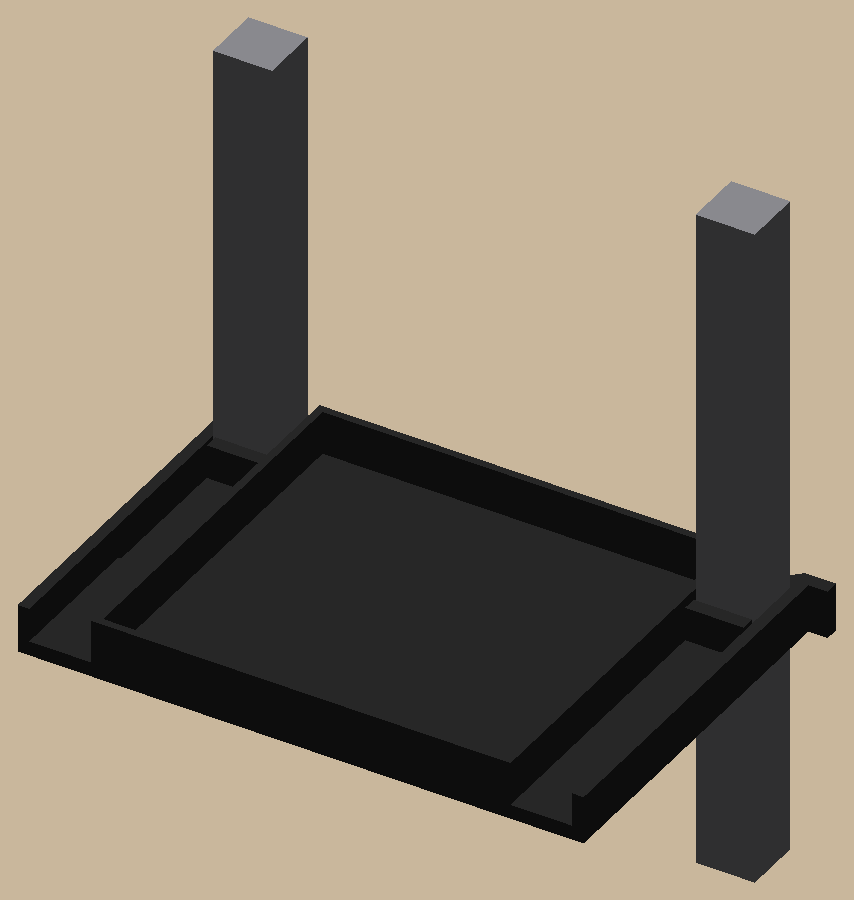
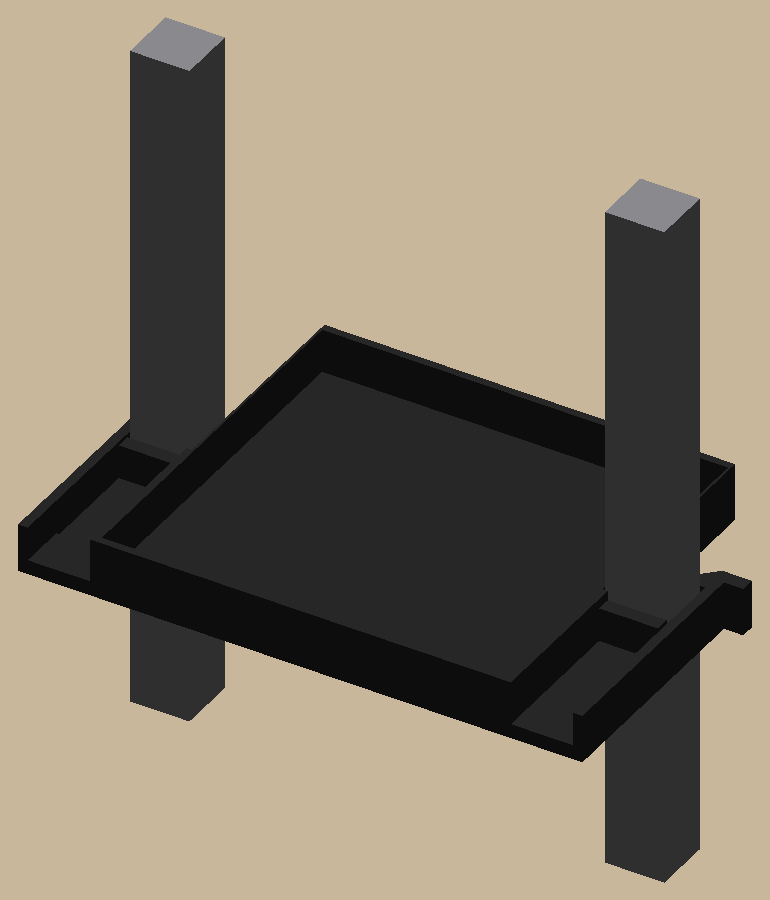
Speaker shelf: speaker centered on the rails both ways; real gap 86, clips at 88 (1 mm play); shorter, thinner arm with a longer root

diff --git a/examples/speaker-shelf/tests/test_shelf.py b/examples/speaker-shelf/tests/test_shelf.py
@@ -5,8 +5,11 @@ from build123d import Align, Box, Pos
 from cadkit.checks import downward_faces, off_layer_z, open_edges, printable_problems
 from cadkit.clash import find_clashes
 from speaker_shelf.assembly import placed_parts, rail_boxes, speaker_box
-from speaker_shelf.parts import hook_end_y, rail_outer_x, shelf, shelf_body
+from speaker_shelf.parts import hook_end_y, shelf, shelf_body
 from speaker_shelf.params import P
+
+PLAY = min(P.rail_clear, (P.clip_gap - P.rail_gap) / 2 + P.arm_gap)  # side to side, each way
+REAL_OUTER = P.rail_gap / 2 + P.rail  # the real rails' outer faces
 
 R = P.rail / 2
 
@@ -38,10 +41,25 @@ def test_too_big_a_rail_clashes():
     assert find_clashes([("shelf", shelf_body(P))] + fat) != []
 
 
+@pytest.mark.parametrize("shift", [PLAY, -PLAY])
+def test_shelf_slides_side_to_side_within_its_play(shift):
+    assert find_clashes([("shelf", Pos(shift, 0, 0) * shelf_body(P))] + rail_boxes(P)) == []
+
+
+@pytest.mark.parametrize("shift", [PLAY + 0.3, -PLAY - 0.3])
+def test_play_is_no_more_than_that(shift):
+    assert find_clashes([("shelf", Pos(shift, 0, 0) * shelf_body(P))] + rail_boxes(P)) != []
+
+
+def test_clips_have_about_a_millimetre_of_play():
+    assert (P.clip_gap - P.rail_gap) / 2 == pytest.approx(1.0)
+    assert P.arm_gap + (P.clip_gap - P.rail_gap) / 2 >= P.rail_clear  # the floor stops it before an arm would
+
+
 @pytest.mark.parametrize("side", [1, -1])
 def test_jaw_to_hook_is_the_fit_tested_size(body, side):
     """Along y through the clip, between the front jaw and the hook: exactly p.rail of air."""
-    x = side * (rail_outer_x(P) - 1)
+    x = side * (REAL_OUTER - 1)
     probe = _box(x - 0.05, x + 0.05, -R - P.jaw_t - 1, R + 3, P.clip_h / 2, P.clip_h / 2 + 0.1)
     pieces = sorted((s.bounding_box() for s in (body & probe).solids()), key=lambda b: b.min.Y)
     assert len(pieces) == 2
@@ -49,22 +67,23 @@ def test_jaw_to_hook_is_the_fit_tested_size(body, side):
 
 
 @pytest.mark.parametrize("side", [1, -1])
-def test_hook_reaches_behind_the_rail(body, side):
-    xo = rail_outer_x(P)
+def test_hook_reaches_behind_the_real_rail(body, side):
+    xo = REAL_OUTER
     behind = _box(min(side * xo, side * (xo - P.rail)), max(side * xo, side * (xo - P.rail)), R, R + 0.5, 0, P.clip_h)
     covered = (body & behind).bounding_box()
-    assert covered.size.X == pytest.approx(P.hook_depth, abs=0.01)
+    assert covered.size.X == pytest.approx(P.hook_depth - (P.clip_gap - P.rail_gap) / 2, abs=0.01)
+    assert covered.size.X - PLAY >= 3.5  # still a good bite with the shelf shifted away
 
 
 def test_pocket_fits_the_speaker_with_clearance(body):
     """A probe across the pocket at mid-wall height: the air is the speaker plus clearance both ways."""
     z = (P.floor_t + P.wall_h) / 2
-    cy = -P.speaker_offset
+    cy = -P.speaker_d / 3  # in front of the rails, where the pocket has side walls
     across = sorted((s.bounding_box() for s in (body & _box(-60, 60, cy - 0.05, cy + 0.05, z, z + 0.1)).solids()),
                     key=lambda b: b.min.X)
     inner = [b for b in across if abs(b.center().X) < P.rail_gap / 2]
     assert inner[1].min.X - inner[0].max.X == pytest.approx(P.speaker_w + 2 * P.speaker_clear, abs=0.01)
-    deep = sorted((s.bounding_box() for s in (body & _box(-0.05, 0.05, -90, 30, z, z + 0.1)).solids()),
+    deep = sorted((s.bounding_box() for s in (body & _box(-0.05, 0.05, -90, 90, z, z + 0.1)).solids()),
                   key=lambda b: b.min.Y)
     assert deep[1].min.Y - deep[0].max.Y == pytest.approx(P.speaker_d + 2 * P.speaker_clear, abs=0.01)
 
@@ -73,7 +92,7 @@ def test_rails_slide_in_from_the_back_touching_only_the_hooks(body):
     """Install: the shelf is pushed on from the front, so each rail travels from behind to y = 0.
     Along that path it meets nothing but the hooks (which the arms swing out of the way)."""
     for side in (1, -1):
-        xo = rail_outer_x(P)
+        xo = REAL_OUTER
         x0, x1 = sorted((side * (xo - P.rail), side * xo))
         hit = body & _box(x0, x1, -R, 60, -1, 30)
         assert hit.volume > 0
@@ -90,11 +109,14 @@ def test_arm_bends_within_pla_strain_when_snapping_on():
     assert 3 * P.arm_t * (P.hook_depth + P.arm_gap) / (2 * P.arm_free ** 2) < 0.01
 
 
-def test_offset_load_cocks_the_clips():
-    """A clip on a pole jams when the load sits further out than clip_h / (2 mu): 1.5x margin at mu."""
-    assert P.speaker_offset > 1.5 * P.clip_h / (2 * P.mu)
-
-
 def test_speaker_stays_centered_between_the_rails():
-    assert speaker_box(P).bounding_box().center().X == pytest.approx(0, abs=1e-6)
-    assert P.speaker_w / 2 + P.speaker_clear + P.wall < P.rail_gap / 2
+    """Centered both ways on the rails, and the floor between them clears the speaker and the rails."""
+    c = speaker_box(P).bounding_box().center()
+    assert (c.X, c.Y) == pytest.approx((0, 0), abs=1e-6)
+    assert P.speaker_w / 2 + P.speaker_clear < P.rail_gap / 2 - P.rail_clear
+
+
+def test_arm_root_is_long_enough():
+    """The arm's fused root, from the shelf's front edge to where it starts to flex."""
+    front = -P.speaker_d / 2 - P.speaker_clear - P.wall
+    assert (hook_end_y(P) - P.arm_free) - front >= P.arm_root

diff --git a/examples/speaker-shelf/speaker_shelf/parts.py b/examples/speaker-shelf/speaker_shelf/parts.py
@@ -44,12 +44,14 @@ def gap_gauge(p: Params = P) -> Part:
     return out
 
 
-# The shelf, in the rail frame: rails centered on y = 0 at x = ±(rail_gap + rail) / 2, the speaker forward (-y).
-# You push it on from the front: each rail slides in from behind, past a hook on a flexing arm, which snaps behind it.
+# The shelf, in the rail frame: rails centered on y = 0, their inner faces ±rail_gap / 2 apart; the speaker centered
+# on the rail line, its middle between the rails. You push it on from the front: each rail slides in from behind,
+# past a hook on a flexing arm, which snaps behind it. The arms sit as if the rails were clip_gap apart.
 
 
 def rail_outer_x(p: Params) -> float:
-    return p.rail_gap / 2 + p.rail
+    """Where the clip expects each rail's outer face (from clip_gap, not the real gap)."""
+    return p.clip_gap / 2 + p.rail
 
 
 def hook_end_y(p: Params) -> float:
@@ -57,11 +59,11 @@ def hook_end_y(p: Params) -> float:
     return p.rail / 2 + p.hook_tip + p.hook_depth
 
 
-def _clip_side(p: Params) -> tuple[list, list, list]:
-    """The +x clip as (floor, full-height, clip-height) sketches; the -x one is its mirror."""
+def _clip_side(p: Params) -> tuple[list, list]:
+    """The +x clip as (floor, clip-height) sketches; the -x one is its mirror."""
     r, xo = p.rail / 2, rail_outer_x(p)
     ox = p.speaker_w / 2 + p.speaker_clear + p.wall  # pocket outside
-    front = -p.speaker_offset - p.speaker_d / 2 - p.speaker_clear - p.wall
+    front = -p.speaker_d / 2 - p.speaker_clear - p.wall
     xa = xo + p.arm_gap  # arm inner face
     y_end = hook_end_y(p)
     root_y = y_end - p.arm_free
@@ -72,20 +74,22 @@ def _clip_side(p: Params) -> tuple[list, list, list]:
             poly((xo - p.hook_depth, r), (xa + p.arm_t, r), (xa + p.arm_t, y_end), (xo, y_end),
                  (xo - p.hook_depth, r + p.hook_tip)),  # hook, lead-in on its back
             rect(xa + p.arm_t - 1, xa + p.arm_t + p.tab, y_end - p.tab_w, y_end)]  # finger tab
-    return floor, [], clip
+    return floor, clip
 
 
 def shelf_body(p: Params = P) -> Part:
-    """The shelf in the rail frame, floor on Z = 0."""
+    """The shelf in the rail frame, floor on Z = 0. From the rails' front faces back, the pocket narrows to fit
+    between the rails (the rails are its side walls there) and keeps only its back wall."""
     px, py = p.speaker_w / 2 + p.speaker_clear, p.speaker_d / 2 + p.speaker_clear
-    cy = -p.speaker_offset
-    pocket_out = rect(-px - p.wall, px + p.wall, cy - py - p.wall, cy + py + p.wall)
-    floor, _, clip = _clip_side(p)
-    floor_sk = Sketch() + [pocket_out] + floor + [mirror(s, Plane.YZ) for s in floor]
+    xin = p.rail_gap / 2 - p.rail_clear
+    pocket_out = rect(-px - p.wall, px + p.wall, -py - p.wall, py + p.wall)
+    rail_lanes = [rect(xin, 200, -p.rail / 2, 200), rect(-200, -xin, -p.rail / 2, 200)]  # the rails' way in
+    floor, clip = _clip_side(p)
+    floor_sk = Sketch() + [pocket_out] + floor + [mirror(s, Plane.YZ) for s in floor] - rail_lanes
     clip_sk = Sketch() + clip + [mirror(s, Plane.YZ) for s in clip]
-    walls_sk = Sketch() + [pocket_out] - [rect(-px, px, cy - py, cy + py)]
+    walls_sk = Sketch() + [pocket_out] - [rect(-px, px, -py, py)] - rail_lanes
     out = extrude(floor_sk, p.floor_t) + extrude(walls_sk, p.wall_h) + extrude(clip_sk, p.clip_h)
-    out = Part(out.solids()) if len(out.solids()) == 1 else out
+    out = Part(out.solids())
     out.label = "speaker_shelf"
     return out
 

diff --git a/examples/speaker-shelf/speaker_shelf/params.py b/examples/speaker-shelf/speaker_shelf/params.py
@@ -8,24 +8,26 @@ from cadkit import Printer
 class Params:
     # The banister, from the fit coupon (docs/measurements.md).
     rail: float = 12.3  # clip jaw spacing: the fork's 12.4 slot slid on right, the user asked one step tighter
-    rail_gap: float = 88.0  # face to face: the gauge's widest step went in (maybe a bit more; the arms flex to take it)
+    rail_gap: float = 86.0  # face to face, the real gap (gap gauge)
+    clip_gap: float = 88.0  # the clip arms sit as if the rails were 88 apart: about 1 mm play each side (user's call)
+    rail_clear: float = 0.5  # floor and walls between the rails to each rail's inner face
 
-    # The speaker and the shelf (rail frame: rails at y = 0, +y toward the back, the speaker forward at -y).
+    # The speaker and the shelf (rail frame: rails at y = 0, +y toward the back). The speaker sits centered on the
+    # rail line, its middle between the rails, which are its side walls there.
     speaker_w: float = 83.0  # along the banister
     speaker_d: float = 75.0
     speaker_clear: float = 0.5  # each side, in the pocket
-    speaker_offset: float = 30.0  # speaker center forward of the rail line: its weight cocks the clips onto the rails
-    mu: float = 0.3  # PLA on painted steel, a cautious guess; the clips hold if offset > clip_h / (2 mu)
     floor_t: float = 3.0
     wall: float = 1.6  # pocket walls (4 lines)
     wall_h: float = 12.0  # pocket walls, floor included
-    clip_h: float = 10.0  # front jaw, arm and hook: the pinch span
+    clip_h: float = 10.0  # front jaw, arm and hook
     jaw_t: float = 3.0  # front jaw, in front of each rail
-    arm_t: float = 2.4  # the flexing arm along each rail's outer face
+    arm_t: float = 2.0  # the flexing arm along each rail's outer face
     arm_gap: float = 0.1  # arm to rail outer face
     arm_slot: float = 0.6  # frees the arm from the floor and jaw
-    arm_free: float = 50.0  # flexing length, root to arm end
-    hook_depth: float = 4.3  # how far the hook reaches behind the rail
+    arm_free: float = 42.0  # flexing length, root to arm end
+    arm_root: float = 8.0  # at least this much of the arm stays fused to the floor
+    hook_depth: float = 5.3  # behind the rail, from the arm's design face: 4.3 on the real rail
     hook_tip: float = 0.8  # the hook's tip, before its 45-degree lead-in
     tab: float = 4.0  # finger tab on the arm end, to pull it open
     tab_w: float = 3.0

diff --git a/examples/speaker-shelf/speaker_shelf/assembly.py b/examples/speaker-shelf/speaker_shelf/assembly.py
@@ -19,7 +19,7 @@ def rail_boxes(p: Params = P, extra: float = 0.0) -> list[tuple[str, Box]]:
 
 
 def speaker_box(p: Params = P) -> Box:
-    return Pos(0, -p.speaker_offset, p.floor_t) * Box(p.speaker_w, p.speaker_d, SPEAKER_H,
+    return Pos(0, 0, p.floor_t) * Box(p.speaker_w, p.speaker_d, SPEAKER_H,
                                                       align=(Align.CENTER, Align.CENTER, Align.MIN))
 
 

diff --git a/examples/speaker-shelf/README.md b/examples/speaker-shelf/README.md
@@ -1,13 +1,13 @@
 # speaker-shelf
 
-A little black shelf that clips onto two banister rails (13 mm square tubes, 86 mm apart) and holds a vertical
-speaker (base 83 × 75 mm) centered between them. No hardware: the speaker sits forward of the rail line, so its
-weight cocks the clips and they pinch the rails, like a shelf bracket on a pole.
+A little black shelf that clips onto two banister rails (about 12.4 mm square tubes, 86 mm apart) and holds a vertical
+speaker (base 83 × 75 mm) centered on them both ways: its middle sits between the rails, which are its side walls
+there. No hardware: the clips squeeze each rail front to back (12.3 mm jaws), with about 1 mm of side play.
 
 <img src="docs/images/with_speaker.png" width="49%" alt="shelf on two rails with the speaker"> <img src="docs/images/shelf_on_rails.png" width="49%" alt="shelf clipped on two rails">
 
 Print `out/plates/speaker_shelf.3mf` (black, no supports). Push it onto the rails from the front: each hook rides
-over its rail and snaps behind it. To take it off, pull the little tab at the back of each arm outward.
+over its rail and snaps behind it. Then set the speaker in. To take it off, pull the little tab at the back of each arm outward.
 
 <img src="docs/images/fit_coupon.png" width="49%" alt="fit coupon: rail fork and gap gauge">
 

diff --git a/examples/speaker-shelf/docs/specs/2026-11-07-speaker-shelf.md b/examples/speaker-shelf/docs/specs/2026-11-07-speaker-shelf.md
@@ -16,3 +16,9 @@
   88. With the wider gap the rails no longer act as the speaker's side walls: the pocket gets four walls of its own
   (1.6 mm, 0.4 mm clear of the rails). The arm sits 0.1 mm off the rail's outer face and flexes out if the gap is
   over 88.
+- 2026-11-07, the real gap is 86; the user wants the clips at 88 (about 1 mm side play each way) and the speaker
+  centered front to back on the rails, shelf on first, speaker set in after. So no offset load cocking the clips: the
+  shelf holds on the clips' squeeze (12.3 jaws on a ~12.4 rail) alone. Between the rails the pocket has no side walls
+  (the rails are its walls, the floor 0.5 clear of them), only its back wall. The arm is shorter and thinner (42 mm,
+  2 mm) so its fused root stays at least 8 mm long; the hook is 5.3 deep from the arm, 4.3 on the real rail.
+  If it creeps down the rails, the fix is to move the speaker forward again (the first design) or add a pinch screw.

diff --git a/examples/speaker-shelf/docs/measurements.md b/examples/speaker-shelf/docs/measurements.md
@@ -6,4 +6,4 @@
 | Gap between rails | 86 mm, face to face | ruler (2026-11-07); fit coupon's gap gauge to confirm |
 | Speaker base | 83 wide × 75 deep | ruler (2026-11-07) |
 | Rail, by fit coupon | 12.4 slot slid on right; user chose 12.3 for the clip (tighter) | rail fork (2026-11-07) |
-| Gap, by fit coupon | 88 mm: the widest step went in, so 88 or a little more | gap gauge (2026-11-07) |
+| Gap, by fit coupon | 86 mm (the user, correcting my reading of the gauge) | gap gauge (2026-11-07) |
